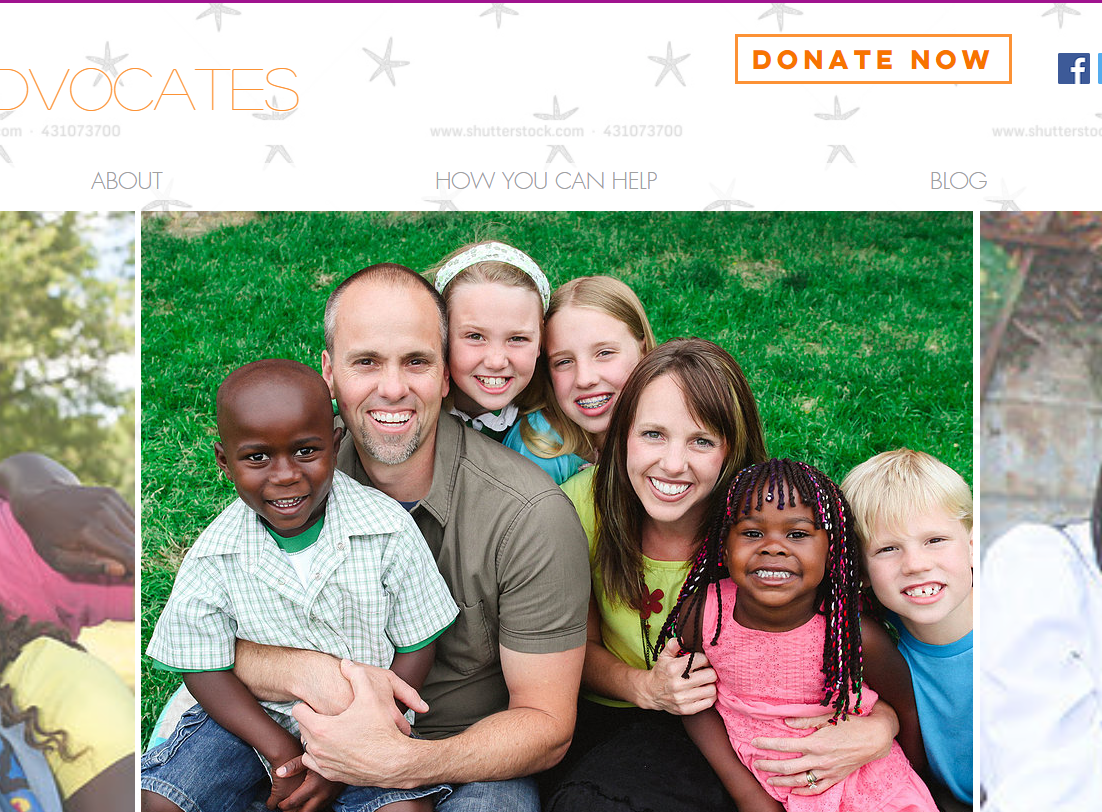
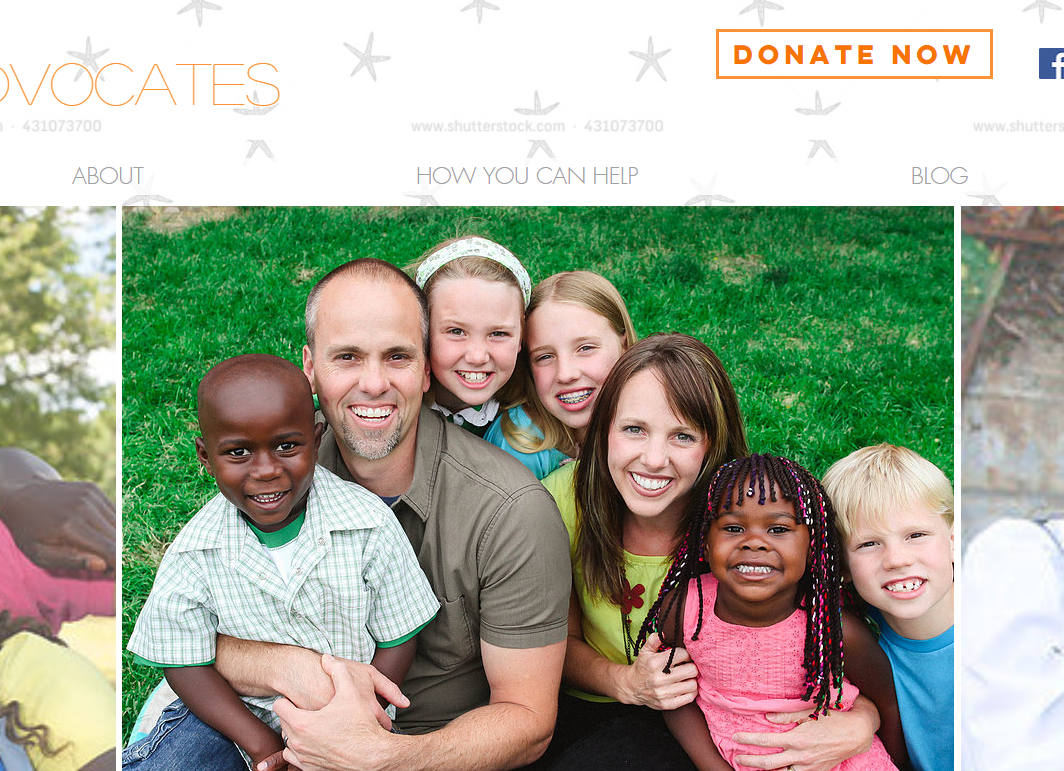
image-hover

diff --git a/index.html b/index.html
@@ -19,12 +19,17 @@
     <div id="webimages">
         <div class="container">
             <a class="images" href="http://joyrichmond.wixsite.com/joy-richmond-website">
-                <img src="Girl'sGottaTeach.png">
+                <img class="portfolio-img" src="Girl'sGottaTeach.png">
             </a>
         </div>
         <div class="container">
             <a class="images" href="https://joyrichmond.wixsite.com/starfishadvocates">
-                <img src="StarfishAdvocates.PNG">
+                <img class="portfolio-img" src="StarfishAdvocates.PNG">
+            </a>
+        </div>
+        <div class="container">
+            <a class="images" href="">
+                <img class="portfolio-img" src="InADay.PNG">
             </a>
         </div>
     </div>

diff --git a/styles.css b/styles.css
@@ -60,11 +60,16 @@ h3 {
 .images{
     flex: 1 1 auto;
     text-align: center;
-    margin: none;
 }
 
-img{
+.portfolio-img{
     max-width: 75%;
     height: auto;
     border: 0.05em solid white;
+    padding: 2em;
+    background-color: rgba(0, 0, 0, 0.85);
+}
+
+.portfolio-img:hover {
+    box-shadow: 2px 2px 2px #636363, -2px -2px 2px #636363;
 }
